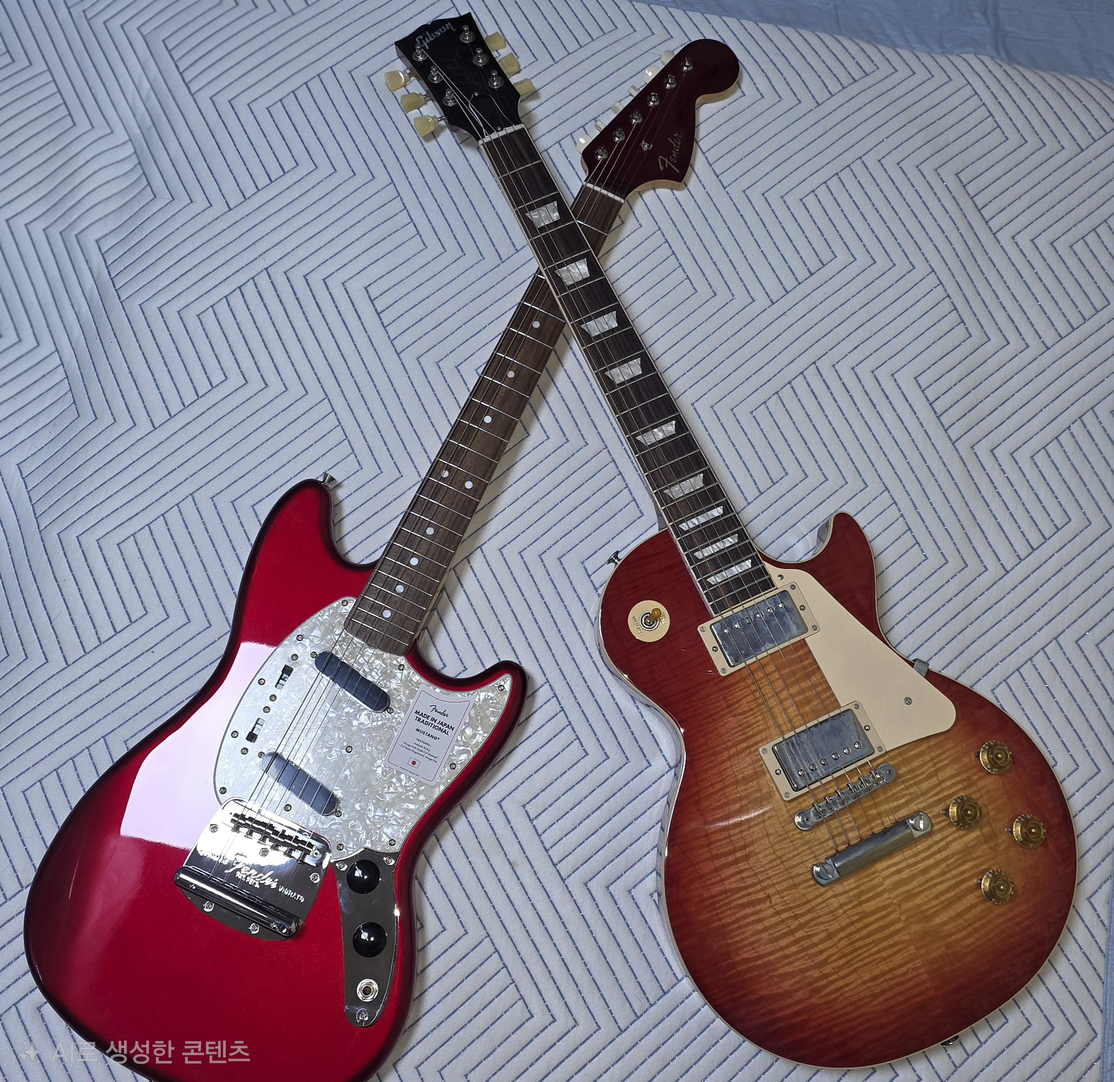
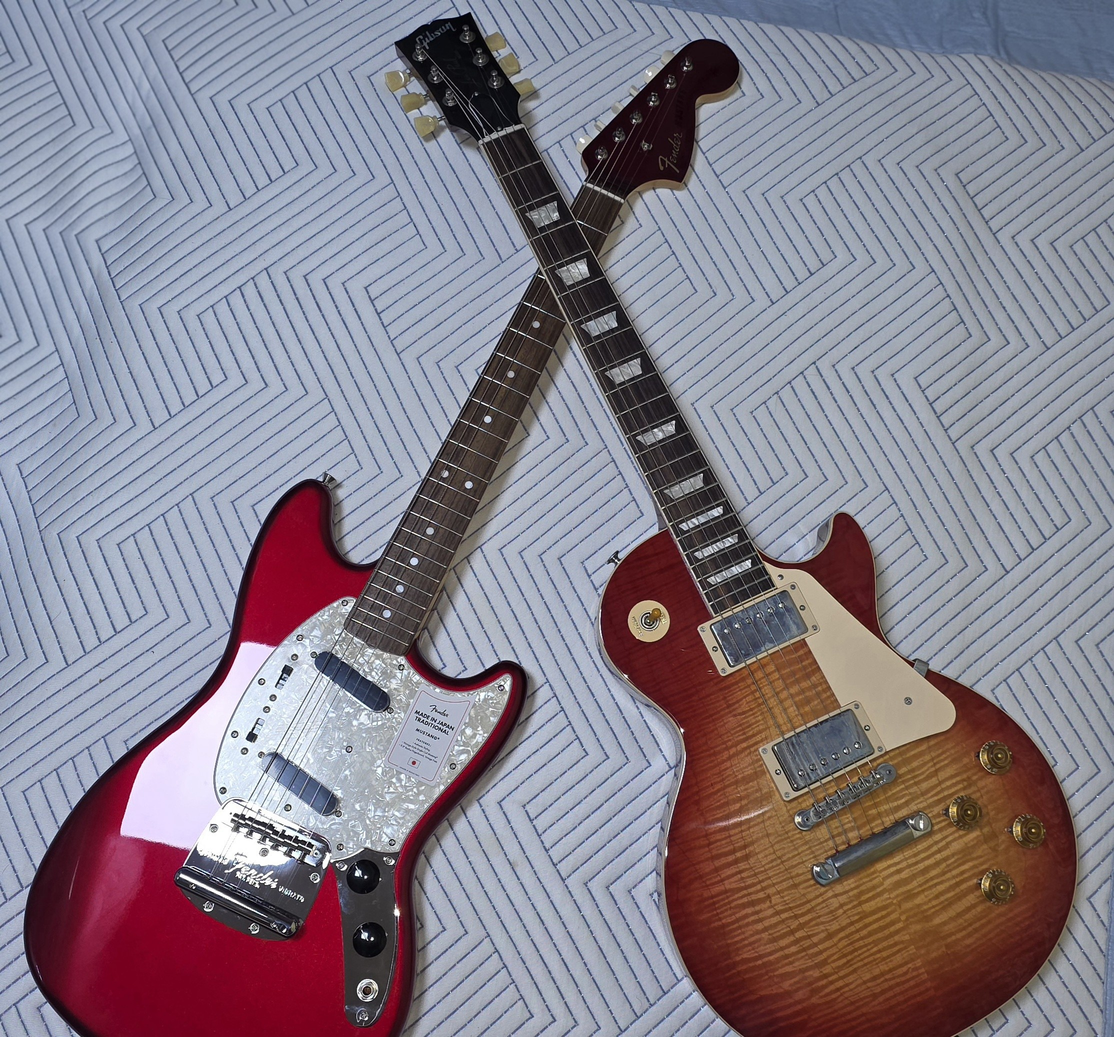
DOM_2

diff --git a/js/js-dom-02.htm b/js/js-dom-02.htm
@@ -1,0 +1,59 @@
+<!DOCTYPE HTML>
+<html>
+
+<head>
+    <title>
+        DOM(Document Object Model) - JS
+    </title>
+    <style>
+
+    </style>
+    <script>
+        function changeContent() {
+            let t1 = document.querySelectorAll("span");
+
+
+
+            t1[0].innerHTML = "HTML5: + CSS3";
+            t1[1].innerHTML = "자바스크립트: DOM 프로그래밍";
+
+            let tagnode = document.createElement("li");
+            let txtnode = document.createTextNode("Ajax 프로그래밍");
+            //let bodytag = document.querySelector("body");
+            let btnnode = document.querySelector("#btn")
+
+            tagnode.appendChild(txtnode);
+
+            btnnode.parentNode.insertBefore(tagnode, btnnode);
+
+            //bodytag.insertBefore(tagnode, btnnode);
+        }
+        function listPlace() {
+            let tag1 = document.querySelector("#t1");
+            let tag2 = document.querySelector("#t2");
+            let newPlace = document.createElement("li")
+            let placeNode = document.createTextNode(tag1.value);
+            newPlace.appendChild(placeNode);
+            tag2.appendChild(newPlace);
+            tag1.value = "";
+        }
+    </script>
+</head>
+
+<body>
+
+    <h3>웹프로그래밍 수업 내용</h3>
+    <span id="s1">HTML5</span><br>
+    <span id="s2">자바스크립트</span><br>
+
+
+
+
+    <button id="btn" onclick='changeContent()' ;>다음 내용</button><br>
+    <span>이름 : </span> <input id = "t1" type="text"  />
+    <button onclick="listPlace()">추가</button><br>
+    <ul id="t2"></ul>
+    <button onclick="location.href='../index.htm';">홈으로</button>
+</body>
+
+</html>

diff --git a/js/js-bom.htm b/js/js-bom.htm
@@ -1,0 +1,58 @@
+<!DOCTYPE HTML>
+<html>
+
+<head>
+    <title>
+        bom_test
+    </title>
+    <style>
+
+    </style>
+</head>
+
+<body>
+
+    <h1>JS BOM 실습</h1>
+
+    <h3> window 객체</h3>
+
+    <button onclick="w1 = window.open('http://localhost/jyo', 'win1');">실습 홈페이지 열기</button>
+    <button onclick="w1.close()">실습 홈페이지 닫기</button>
+    <a href="http://www.jj.ac.kr" target="win1">전주대 홈페이지</a>
+
+    <!-- document가 있어서 아직 잘 모름 -->
+    <h3> 윈도우 타이머 메서드 </h3>
+    <hr>
+    현재시간 : <span id="clock"></span>
+    <button onclick="clearInterval(t1)">Stop</button>
+    <script>
+        let t1 = setInterval(myClock, 5000);
+        function myClock() {
+            let currentTime = new Date();
+            document.getElementById("clock").innerHTML
+                = currentTime.toLocaleTimeString();
+        }
+    </script>
+
+    <h3> setTimeout() 메서드 1</h3>
+    <hr>
+    생각하는 시간(10초)
+    <button onclick="thinkingStart();">Start</button>
+    <hr>
+    <img id="img1" style="visibility:hidden" , src="../multi/img_test1.jpg" width=200 height=250 />
+    <p id="noti"> </p>
+    <script>
+        function thinkingStart() {
+            document.images[0].style.visibility = "visible";
+            setTimeout(myTimer, 10000);
+        }
+        function myTimer() {
+            document.images[0].style.visibility = "hidden";
+            document.getElementById("noti").innerHTML = "10초가 경과했습니다!";
+        }
+    </script>
+
+    <button onclick="location.href='../index.htm';">홈으로</button>
+</body>
+
+</html>

diff --git a/js/js-dom-01.htm b/js/js-dom-01.htm
@@ -1,0 +1,43 @@
+<!DOCTYPE HTML>
+<html>
+
+<head>
+    <title>
+     DOM(Document Object Model) - JS
+    </title>
+    <style>
+        
+    </style>
+
+
+</head>
+
+<script>
+    function changeContent(){
+        let t1 = document.getElementsByTagName('span');
+        t1[0].innerHTML = "지금은 자바스크립트를 공부합니다.22";
+        t1[1].innerHTML = "??????"
+        let t2 = document.querySelector('#p3');
+        t2.innerHTML = "지금은 <h2>자바스크립트를</h2> 공부합니다.";
+        let t3 = document.querySelector('#p4');
+        t3.innerHTML = "<img src = '../multi/img_test1.jpg' width='250' height='250'>";
+
+    }
+</script>
+
+<body>
+    <h3>What can JavaScript Do?</h3>
+    <span>지금까지 HTML과 CSS를 공부하였습니다.</span><br>
+    <span></span><br>
+    <span id = "p3"></span><br>
+    <span id = "p4"></span><br>
+    
+    <button onclick = 'changeContent()';>다음 내용</button>
+    <br>
+
+
+
+    <button onclick="location.href='../index.htm';">홈으로</button>
+ </body>
+
+</html>

diff --git a/index.htm b/index.htm
@@ -19,6 +19,9 @@
 	<li><a href="./CSS/css3-task-jyo.htm">CSS 스타일시트 과제</a></li>
 	<li><a href="./js/js-01.htm">자바스크립트 실습</a></li>
 	<li><a href="./doc/date.htm">자바스크립트 실습2</a></li>
+	<li><a href="./js/js-bom.htm">자바스크립트 BOM 실습</a></li>
+	<li><button onclick ="location.href = './js/js-dom-01.htm';">자바스크립트 DOM 실습</button></li>
+	<li><button onclick ="location.href = './js/js-dom-02.htm';">자바스크립트 DON 실습2</button></li>
 
 	</ul>
 

diff --git a/doc/date.htm b/doc/date.htm
@@ -62,6 +62,8 @@
             document.write(" 행운 번호 : ");
             for (i = 1; i <= 6; i++) document.write(num[i] + "&nbsp; ");
             document.write("<br>보너스 번호 : " + num[7]);
+
+            document.write('<br><a href="../index.htm">홈으로</a>');
         }
     </script>
 

diff --git a/temp.htm b/temp.htm
@@ -12,6 +12,12 @@
 
 <body>
 
+
+
+
+
+
+    <button onclick="location.href='../index.htm';">홈으로</button>
  </body>
 
 </html>
